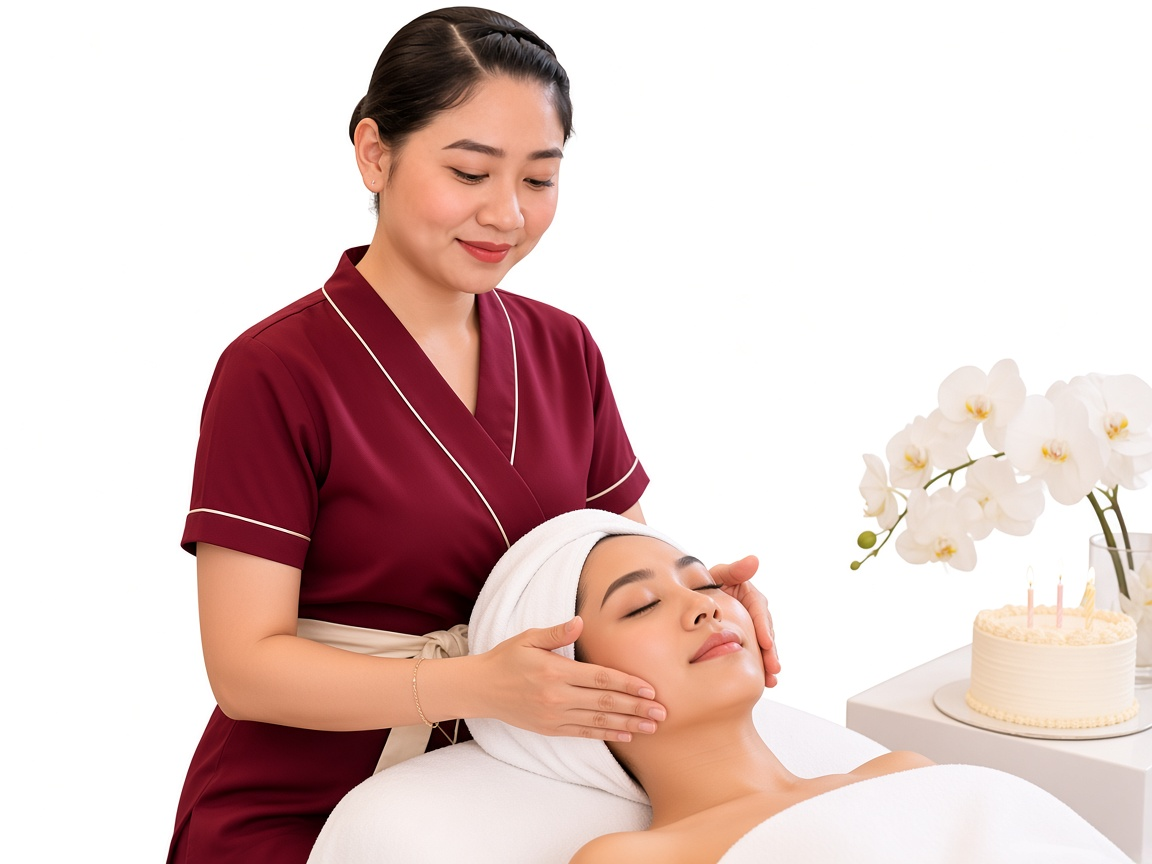
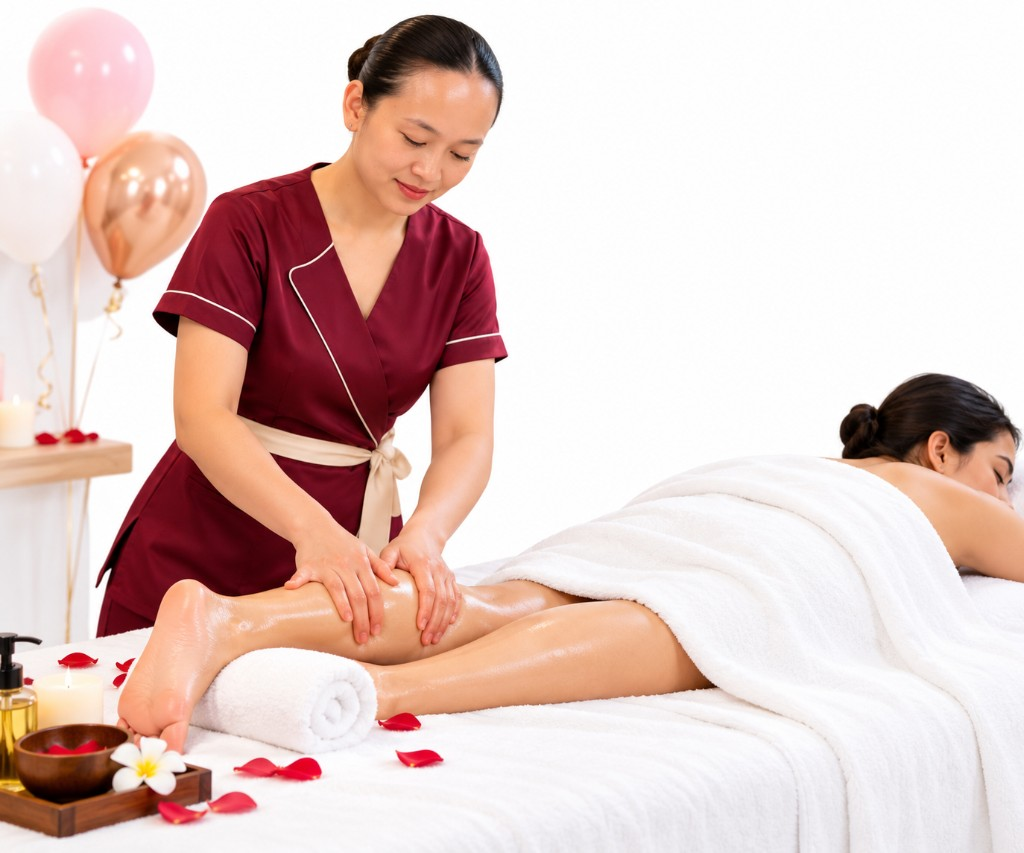
added changes

diff --git a/src/lib/service-data.ts b/src/lib/service-data.ts
@@ -26,14 +26,14 @@ export const serviceItems: ServiceItem[] = [
   make('massage-package-dubai','Massage Package','spa','A focused massage experience for stress release, muscle relaxation and everyday wellness.','....','60 min','/images/packages/massage.jpg',['Multiple massage styles','Experienced therapist','At-your-place service']),
   make('moroccan-bath-package-dubai','Moroccan Bath Package','spa','A luxurious Moroccan bath ritual with cleansing, exfoliation and relaxing finishing care.','....','75 min','/images/packages/moroccan.jpg',['Traditional-inspired ritual','Premium body care','Private setup']),
   make('spa-gift-voucher-dubai','Spa Gift Voucher','spa','A thoughtful wellness gift for birthdays, anniversaries, celebrations or simply someone who deserves time to relax.','....','Flexible','/images/packages/voucher.jpg',['Digital-friendly gifting','Multiple package choices','Personalized message']),
-  make('birthday-spa-package-dubai','Birthday Spa Package','spa','Celebrate a special day with a beautiful private spa experience designed around comfort and relaxation.','....','90 min','/images/packages/birthday.jpg',['Birthday-ready setup','Group options','At-home experience']),
+  make('birthday-spa-package-dubai','Birthday Spa Package','spa','Celebrate a special day with a beautiful private spa experience designed around comfort and relaxation.','....','90 min','/images/events/birthday-v2.jpg',['Birthday-ready setup','Group options','At-home experience']),
   make('bridal-spa-package-dubai','Bridal Spa Package','spa','A calming bridal wellness experience before the big day, with personalized beauty and relaxation treatments.','....','120 min','/images/packages/bridal.jpg',['Bridal preparation','Beauty & wellness','Private group options']),
   make('ladies-spa-package-dubai','Ladies Spa Package','spa','A premium ladies-only wellness experience for relaxation, beauty and self-care at your preferred location.','....','90 min','/images/packages/ladies.jpg',['Female therapists','Ladies-only experience','Home & hotel service']),
 
   make('home-spa-dubai','Home Spa Dubai','place','Professional spa and beauty services delivered to your home with a discreet, comfortable setup.','....','60 min','/images/place/home-spa.jpg',['At-home convenience','Professional therapists','Flexible appointments']),
   make('home-massage-service-dubai','Home Massage Service Dubai','place','Relax with a professional massage in the comfort of your own home.','....','60 min','/images/place/home-massage.jpg',['Experienced therapist','Flexible timing','Comfort-first setup']),
   make('hotel-room-spa-service-dubai','Hotel Room Spa Service Dubai','place','Turn your hotel room into a peaceful spa retreat with professional mobile treatments.','....','60 min','/images/place/hotel.jpg',['Hotel-friendly setup','Discreet service','Premium products']),
-  make('apartment-spa-service-dubai','Apartment Spa Service Dubai','place','Enjoy personalized spa and wellness treatments without leaving your apartment.','....','60 min','/images/place/apartment-v2.jpg',['Apartment setup','Female therapists','Personalized treatment']),
+  make('apartment-spa-service-dubai','Apartment Spa Service Dubai','place','Enjoy personalized spa and wellness treatments without leaving your apartment.','....','60 min','/images/place/apartment-v3.jpg',['Apartment setup','Female therapists','Personalized treatment']),
   make('couples-massage-at-home-dubai','Couples Massage at Home Dubai','place','A private couples massage experience arranged at your home for a relaxed shared moment.','....','90 min','/images/place/couples.jpg',['Two therapists','Couples setup','Private experience']),
   make('home-facial-service-dubai','Home Facial Service Dubai','place','Bring professional facial care to your home with a relaxing, personalized beauty session.','....','60 min','/images/place/facial.jpg',['Professional facial care','Premium products','At-home comfort']),
   make('home-spa-marina-dubai','Home Spa Dubai Marina','place','Convenient mobile spa services for residents and guests in Dubai Marina.','....','60 min','/images/place/marina.jpg',['Dubai Marina coverage','Female therapists','Easy WhatsApp booking']),
@@ -43,7 +43,7 @@ export const serviceItems: ServiceItem[] = [
 
   make('spa-event-services-dubai','Spa Event Services Dubai','event','Mobile spa and wellness services designed for private and corporate events across Dubai.','....','Flexible','/images/events/spa-services.jpg',['Event planning support','Multiple therapists','Custom setup']),
   make('spa-party-dubai','Spa Party Dubai','event','Create a memorable spa party with relaxing treatments, professional therapists and a beautiful setup.','....','2+ hrs','/images/events/spa-party.jpg',['Private group','Custom packages','On-site therapists']),
-  make('birthday-spa-party-dubai','Birthday Spa Party Dubai','event','A wellness-focused birthday experience for friends, family and private celebrations.','....','2+ hrs','/images/events/birthday.jpg',['Birthday setup','Group treatments','Personalized packages']),
+  make('birthday-spa-party-dubai','Birthday Spa Party Dubai','event','A wellness-focused birthday experience for friends, family and private celebrations.','....','2+ hrs','/images/events/birthday-v2.jpg',['Birthday setup','Group treatments','Personalized packages']),
   make('bridal-shower-spa-dubai','Bridal Shower Spa Dubai','event','Make a bridal shower extra special with a curated spa experience for the bride and guests.','....','2+ hrs','/images/events/bridal-shower.jpg',['Bridal-friendly setup','Group service','Beauty & relaxation']),
   make('hen-party-spa-dubai','Hen Party Spa Dubai','event','A fun and relaxing pre-wedding wellness experience for the bride and her group.','....','2+ hrs','/images/events/hen-party.jpg',['Group spa treatments','Flexible location','Custom experience']),
   make('corporate-wellness-spa-dubai','Corporate Wellness Spa Dubai','event','Bring professional wellness treatments to your workplace for team wellbeing and employee appreciation.','....','Flexible','/images/events/corporate.jpg',['Corporate packages','On-site therapists','Scalable groups']),

diff --git a/src/app/event-services/page.tsx b/src/app/event-services/page.tsx
@@ -42,7 +42,7 @@ export default async function EventServices() {
           </div>
           <div className="pkg-hero-collage" aria-hidden="true">
             <Image className="pkg-collage-main" src="/images/events/spa-party.jpg" alt="" width={1152} height={864} priority sizes="(max-width:900px) 92vw, 520px" />
-            <Image className="pkg-collage-small pkg-collage-a" src="/images/events/birthday.jpg" alt="" width={1152} height={864} sizes="220px" />
+            <Image className="pkg-collage-small pkg-collage-a" src="/images/events/birthday-v2.jpg" alt="" width={1152} height={864} sizes="220px" />
             <Image className="pkg-collage-small pkg-collage-b" src="/images/events/bridal-shower.jpg" alt="" width={1152} height={864} sizes="220px" />
           </div>
         </div>
